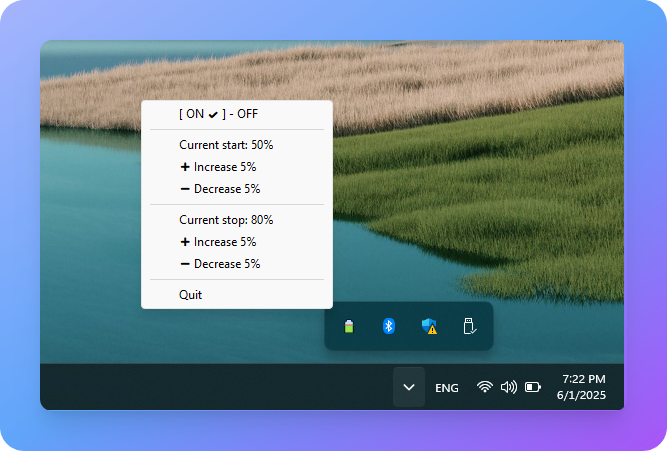
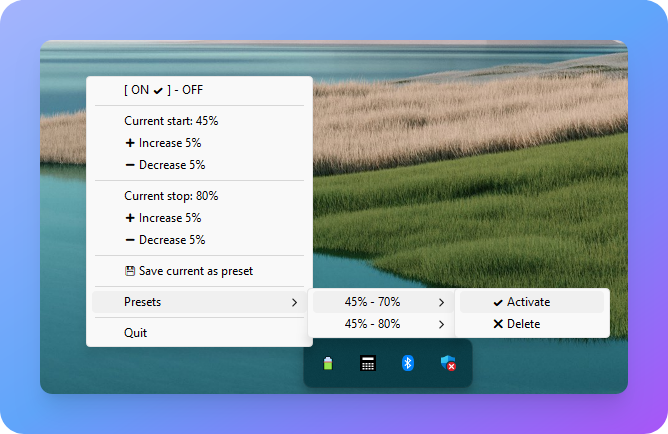
Added presets feature

diff --git a/rlcl.py b/rlcl.py
@@ -3,9 +3,10 @@ import threading
 import re
 import os
 import sys
-import subprocess
+import json
 from pystray import Icon, MenuItem, Menu
 from PIL import Image
+from functools import partial
 
 startupinfo = subprocess.STARTUPINFO()
 startupinfo.dwFlags |= subprocess.STARTF_USESHOWWINDOW  # Hide the console
@@ -13,9 +14,12 @@ startupinfo.dwFlags |= subprocess.STARTF_USESHOWWINDOW  # Hide the console
 CLI_PATH = "./ChargeThreshold.exe"
 ICON_ON = "cl_on.png"
 ICON_OFF = "cl_off.png"
+APP_DATA_DIR = os.path.join(os.getenv('APPDATA'), 'RLCLApp')
+PRESET_FILE = os.path.join(APP_DATA_DIR, "presets.json")
 
 DEFAULT_START = 75
 DEFAULT_STOP = 80
+DEFAULT_PRESETS = []
 
 def run_cli(*args):
     try:
@@ -28,7 +32,9 @@ def run_cli(*args):
 
 def resource_path(filename):
     if hasattr(sys, '_MEIPASS'):
-        return os.path.join(sys._MEIPASS, filename)  # PyInstaller temp dir
+        # If running as a bundled executable, _MEIPASS is the temp folder
+        return os.path.join(sys._MEIPASS, filename)
+        # Otherwise, assume it's in the current script's directory
     return os.path.join(os.path.abspath("."), filename)
 
 def load_image(filename):
@@ -48,6 +54,8 @@ class RLCLApp:
         self.status = None
         self.start = DEFAULT_START
         self.stop = DEFAULT_STOP
+
+        self.presets = self.load_presets()
         self.load_icons()
         self.check_status()
         self.setup_menu()
@@ -67,6 +75,31 @@ class RLCLApp:
         else:
             self.status = False
 
+    def load_presets(self):
+        os.makedirs(APP_DATA_DIR, exist_ok=True)
+        if not os.path.exists(PRESET_FILE):
+            with open(PRESET_FILE, "w") as f:
+                json.dump(DEFAULT_PRESETS, f)
+            return DEFAULT_PRESETS
+        else:
+            try:
+                with open(PRESET_FILE, "r") as f:
+                    loaded_raw = json.load(f)
+                    # convert all inner lists (from JSON) to tuples
+                    # this ensures consistency with how presets are created in add_current_preset and how they are compared/removed.
+                    # otherwise it would behave differently for the ones parsed from the file and the ones created from the menu
+                    return [tuple(p) for p in loaded_raw]
+            except Exception as e:
+                print("Error loading presets:", e)
+                return DEFAULT_PRESETS
+
+    def save_presets(self):
+        try:
+            with open(PRESET_FILE, "w") as f:
+                json.dump(self.presets, f)
+        except Exception as e:
+            print("Error saving presets:", e)
+
     def toggle_limit(self, icon=None, item=None):
         if self.status:
             run_cli("off")
@@ -81,10 +114,18 @@ class RLCLApp:
 
     def update_menu(self):
         toggleLabel = f"{'[ ON ✔ ] - OFF' if self.status else 'ON - [OFF ✔]'}"
-
-        # Check there is a 5% gap, not strictly required, remove at your own risk. I haven't tested stop < start
         can_inc_start = self.start + 5 <= self.stop - 5
         can_dec_stop = self.stop - 5 >= self.start + 5
+        preset_items = [
+            MenuItem(
+                f"{s}% - {e}%",
+                Menu(
+                    MenuItem("✔ Activate", partial(self.apply_preset, s, e)),
+                    MenuItem("❌ Delete", partial(self.delete_preset, s, e))
+                )
+            )
+            for s, e in self.presets
+        ]
 
         self.menu = Menu(
             MenuItem(toggleLabel, self.toggle_limit),
@@ -97,20 +138,53 @@ class RLCLApp:
             MenuItem("➕ Increase 5%", lambda: self.set_values("inc", "stop")),
             MenuItem("➖ Decrease 5%", lambda: self.set_values("dec", "stop"), enabled=can_dec_stop),
             Menu.SEPARATOR,
+            MenuItem("💾 Save current as preset", self.add_current_preset),
+            Menu.SEPARATOR,
+            MenuItem("Presets", Menu(*preset_items)) if preset_items else MenuItem("Presets", Menu(MenuItem("No presets", lambda: None, enabled=False))),
+            Menu.SEPARATOR,
             MenuItem("Quit", self.exit_app)
         )
         self.icon.menu = self.menu
 
     def set_values(self, direction, target):
         if target == "start":
+            # Ensure start stays within 0-100 and doesn't exceed stop - 5
             self.start = max(0, min(100, self.start + (5 if direction == "inc" else -5)))
+            self.start = min(self.start, self.stop - 5)
         elif target == "stop":
+            # Ensure stop stays within 0-100 and doesn't go below start + 5
             self.stop = max(0, min(100, self.stop + (5 if direction == "inc" else -5)))
+            self.stop = max(self.stop, self.start + 5)
+
         if self.status:
             run_cli("on", str(self.stop), str(self.start))
         self.check_status()
         self.update_icon()
         self.update_menu()
+
+    def add_current_preset(self, icon=None, item=None):
+        new_preset = (self.start, self.stop)
+        if new_preset not in self.presets:
+            self.presets.append(new_preset)
+            self.save_presets()
+            self.update_menu()
+
+    def apply_preset(self, s, e, icon=None, item=None):
+        self.start = s
+        self.stop = e
+        if self.status:
+            run_cli("on", str(self.stop), str(self.start))
+        self.check_status()
+        self.update_icon()
+        self.update_menu()
+
+    def delete_preset(self, s, e, icon=None, item=None):
+        try:
+            self.presets.remove((s, e))
+            self.save_presets()
+            self.update_menu()
+        except ValueError:
+            pass
 
     def exit_app(self, icon=None, item=None):
         self.icon.stop()
